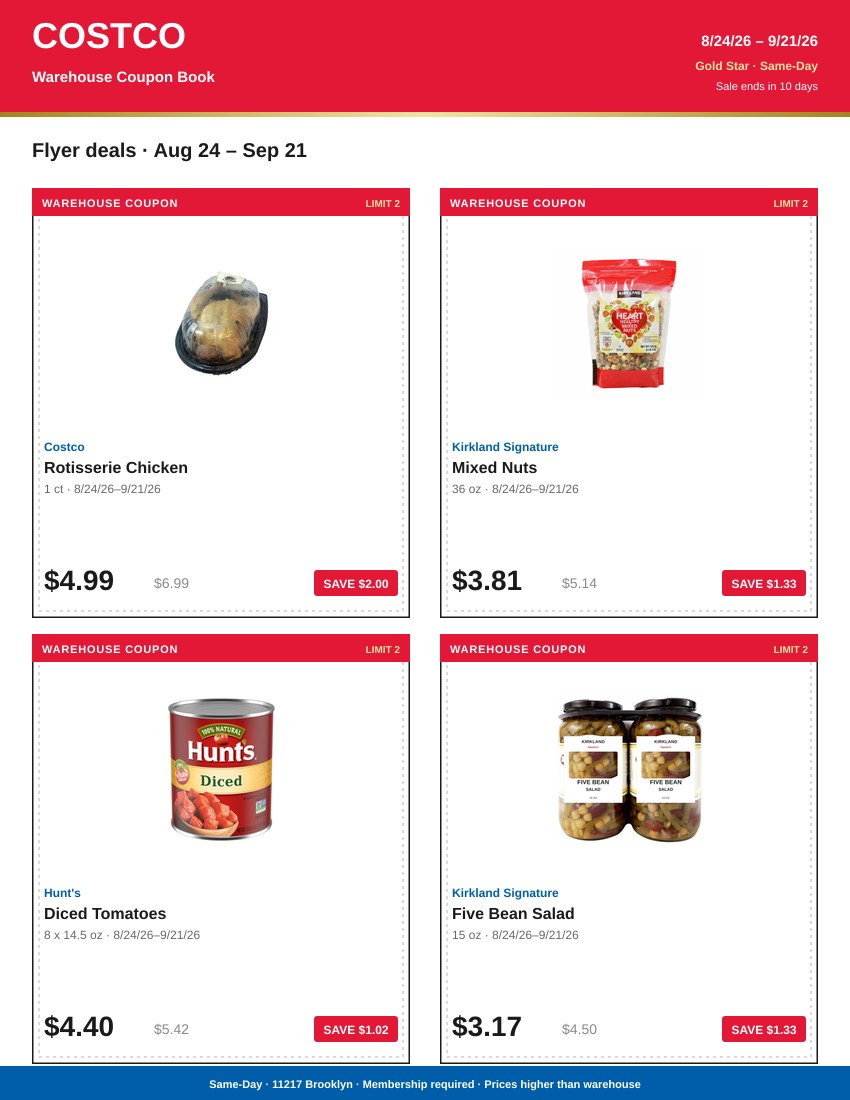
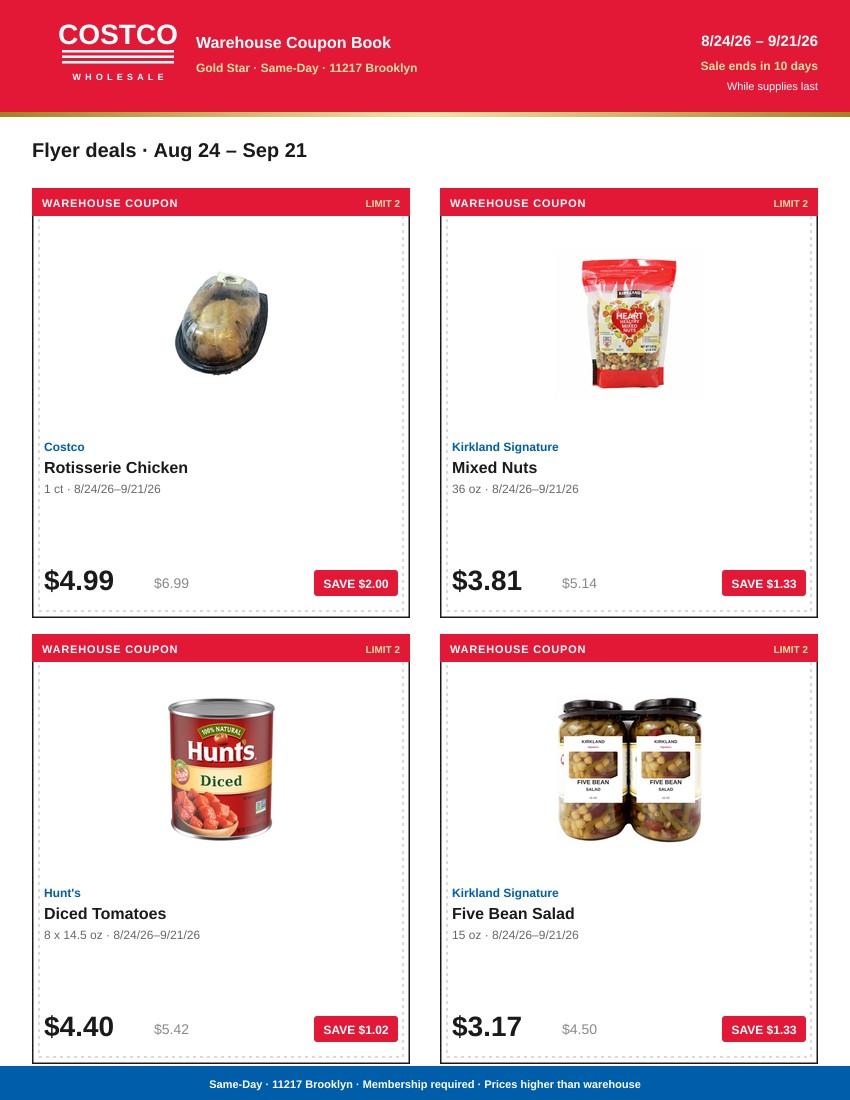
Give Kirk bubbles and the flyer a warehouse lockup
Assistant cards use Costco’s square radius and a red left rule
instead of iMessage pills. Flyer pages now open with the white-on-red
COSTCO / WHOLESALE wordmark.

Changed region(s): [[0.0306, 0.0, 0.4894, 0.0927], [0.8259, 0.0309, 0.9788, 0.0927]]

diff --git a/components/AskKirkChat.tsx b/components/AskKirkChat.tsx
@@ -610,7 +610,7 @@ export default function AskKirkChat({ isOpen, onClose }: AskKirkChatProps) {
                 <GoldStarMembershipCard />
                 <div className="flex gap-2 justify-start">
                   <KirkMark size={28} className="mt-0.5 shrink-0" />
-                  <div className="max-w-[82%] px-3.5 py-2.5 text-[13px] leading-relaxed rounded-2xl rounded-bl-md bg-white text-[#1a1a1a] border border-[#e8e8e8] shadow-[0_1px_2px_rgba(0,0,0,0.04)]">
+                  <div className="max-w-[82%] px-3.5 py-2.5 text-[13px] leading-relaxed rounded-[3px] bg-white text-[#1a1a1a] border border-[#e8e8e8] border-l-[3px] border-l-costco-red">
                     <p className="whitespace-pre-line">{message.content}</p>
                   </div>
                 </div>
@@ -631,10 +631,10 @@ export default function AskKirkChat({ isOpen, onClose }: AskKirkChatProps) {
               <KirkMark size={28} className="mt-0.5 shrink-0" />
             )}
             <div
-              className={`max-w-[82%] px-3.5 py-2.5 text-[13px] leading-relaxed rounded-2xl ${
+              className={`max-w-[82%] px-3.5 py-2.5 text-[13px] leading-relaxed rounded-[3px] ${
                 message.role === "user"
-                  ? "bg-costco-blue text-white rounded-br-md"
-                  : "bg-white text-[#1a1a1a] border border-[#e8e8e8] rounded-bl-md shadow-[0_1px_2px_rgba(0,0,0,0.04)]"
+                  ? "bg-costco-blue text-white"
+                  : "bg-white text-[#1a1a1a] border border-[#e8e8e8] border-l-[3px] border-l-costco-red"
               }`}
             >
               <p className="whitespace-pre-line">{message.content}</p>
@@ -684,7 +684,7 @@ export default function AskKirkChat({ isOpen, onClose }: AskKirkChatProps) {
         {isLoading && (
           <div className="flex justify-start gap-2">
             <KirkMark size={28} className="mt-0.5 shrink-0" />
-            <div className="bg-white border border-[#ededed] rounded-2xl rounded-bl-md px-3.5 py-3 max-w-[82%]">
+            <div className="bg-white border border-[#ededed] border-l-[3px] border-l-costco-red rounded-[3px] px-3.5 py-3 max-w-[82%]">
               <div className="flex gap-1.5 items-center">
                 <span className="text-[11px] text-[#666] mr-1 font-semibold">Kirk</span>
                 <div className="w-1.5 h-1.5 bg-[#999] rounded-full animate-bounce" />

diff --git a/components/FlyersView.tsx b/components/FlyersView.tsx
@@ -9,11 +9,11 @@ import ProductCard from "@/components/ProductCard";
 
 const pages = [
   {
-    src: "/products/flyer-page-1.jpg?v=9",
+    src: "/products/flyer-page-1.jpg?v=10",
     label: "Page 1 · Coupon book",
   },
   {
-    src: "/products/flyer-page-2.jpg?v=9",
+    src: "/products/flyer-page-2.jpg?v=10",
     label: "Page 2 · Flyer deals",
   },
 ] as const;
